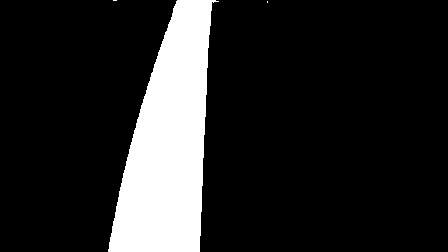
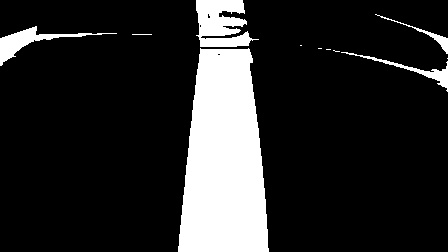
Francisco: Intersection uTurn

diff --git a/InProgress3/line_cam.py b/InProgress3/line_cam.py
@@ -302,9 +302,14 @@ def interpretPOI(poiCropped, poi, is_crop, maxBlackTop, bottomPoint, average_lin
         lastDirection = turn_direction
         
         if timer_manager.is_timer_expired("test_timer"): # So only start counting time from the last time it was seen
-            timer_manager.set_timer("test_timer", 0.75) # Give .75 s for turn
+            timer_manager.set_timer("test_timer", 1.5) # Give 1.0 s for turn
         
         turnReason.value = 1
+
+    elif turn_direction == "uTurn":
+        # BackUp to Control loop. Meaning it will go forward until control decides otherwise
+        final_poi = (camera_x / 2, camera_y / 2)
+        turnReason.value = 102
 
     elif not timer_manager.is_timer_expired("test_timer"): # Not Expired
         #print(f'Still in Turn {"left" if lastDirection == "left" else "right"}')
@@ -448,12 +453,12 @@ def check_black(black_around_sign, i, green_box):
     marker_height_search_factor = 0.3
 
     # Bottom
-    """roi_b_top_left = (np.minimum(int(green_box[2][0]), int(green_box[3][0])), int(green_box[2][1]))
+    roi_b_top_left = (np.minimum(int(green_box[2][0]), int(green_box[3][0])), int(green_box[2][1]))
     roi_b_bottom_right = (np.maximum(int(green_box[2][0]), int(green_box[3][0])), np.minimum(int(green_box[2][1] + (marker_height * marker_height_search_factor)), camera_y))
 
     # Draw the bounding box for the bottom region
     cv2.rectangle(cv2_img, roi_b_top_left, roi_b_bottom_right, (0, 255, 0), 2)  # Green color box
-    """
+    
     
     # Bottom
     roi_b = blackImage[int(green_box[2][1]):np.minimum(int(green_box[2][1] + (marker_height * marker_height_search_factor)), camera_y), np.minimum(int(green_box[2][0]), int(green_box[3][0])):np.maximum(int(green_box[2][0]), int(green_box[3][0]))]
@@ -462,12 +467,12 @@ def check_black(black_around_sign, i, green_box):
             black_around_sign[i, 0] = 1
 
     # Top
-    """roi_t_top_left = (np.minimum(np.maximum(int(green_box[0][0]), 0), np.maximum(int(green_box[1][0]), 0)), np.maximum(int(green_box[1][1] - (marker_height * marker_height_search_factor)), 0))
+    roi_t_top_left = (np.minimum(np.maximum(int(green_box[0][0]), 0), np.maximum(int(green_box[1][0]), 0)), np.maximum(int(green_box[1][1] - (marker_height * marker_height_search_factor)), 0))
     roi_t_bottom_right = (np.maximum(np.maximum(int(green_box[0][0]), 0), np.maximum(int(green_box[1][0]), 0)), int(green_box[1][1]))
 
     # Draw the bounding box for the top region
     cv2.rectangle(cv2_img, roi_t_top_left, roi_t_bottom_right, (0, 255, 0), 2)  # Green color box
-    """
+    
 
     roi_t = blackImage[np.maximum(int(green_box[1][1] - (marker_height * marker_height_search_factor)), 0):int(green_box[1][1]), np.minimum(np.maximum(int(green_box[0][0]), 0), np.maximum(int(green_box[1][0]), 0)):np.maximum(np.maximum(int(green_box[0][0]), 0), np.maximum(int(green_box[1][0]), 0))]
     if roi_t.size > 0:
@@ -477,12 +482,12 @@ def check_black(black_around_sign, i, green_box):
     green_box = green_box[green_box[:, 0].argsort()]
 
     # Left
-    """roi_l_top_left = (np.maximum(int(green_box[1][0] - (marker_height * marker_height_search_factor)), 0), np.minimum(int(green_box[0][1]), int(green_box[1][1])))
+    roi_l_top_left = (np.maximum(int(green_box[1][0] - (marker_height * marker_height_search_factor)), 0), np.minimum(int(green_box[0][1]), int(green_box[1][1])))
     roi_l_bottom_right = (int(green_box[1][0]), np.maximum(int(green_box[0][1]), int(green_box[1][1])))
 
     # Draw the bounding box for the left region
     cv2.rectangle(cv2_img, roi_l_top_left, roi_l_bottom_right, (0, 255, 0), 2)  # Green color box
-    """
+    
 
     roi_l = blackImage[np.minimum(int(green_box[0][1]), int(green_box[1][1])):np.maximum(int(green_box[0][1]), int(green_box[1][1])), np.maximum(int(green_box[1][0] - (marker_height * marker_height_search_factor)), 0):int(green_box[1][0])]
     if roi_l.size > 0:
@@ -490,12 +495,12 @@ def check_black(black_around_sign, i, green_box):
             black_around_sign[i, 2] = 1
 
     # Right
-    """roi_r_top_left = (int(green_box[2][0]), np.minimum(int(green_box[2][1]), int(green_box[3][1])))
+    roi_r_top_left = (int(green_box[2][0]), np.minimum(int(green_box[2][1]), int(green_box[3][1])))
     roi_r_bottom_right = (np.minimum(int(green_box[2][0] + (marker_height * marker_height_search_factor)), camera_x), np.maximum(int(green_box[2][1]), int(green_box[3][1])))
 
     # Draw the bounding box for the right region
     cv2.rectangle(cv2_img, roi_r_top_left, roi_r_bottom_right, (0, 255, 0), 2)  # Green color box
-    """
+    
 
     roi_r = blackImage[np.minimum(int(green_box[2][1]), int(green_box[3][1])):np.maximum(int(green_box[2][1]), int(green_box[3][1])), int(green_box[2][0]):np.minimum(int(green_box[2][0] + (marker_height * marker_height_search_factor)), camera_x)]
     if roi_r.size > 0:
@@ -545,7 +550,7 @@ def checkGreen(contours_grn):
         
         # Only process contours in the bottom 80% of the image
         if y_center < bottom_percent_threshold:
-            print(f"Here {y_center} {bottom_percent_threshold}")
+            #print(f"Here {y_center} {bottom_percent_threshold}")
             continue
             
 
@@ -634,7 +639,8 @@ def lineCamLoop():
     timer.set_timer("left_marker_up", .05)
     timer.set_timer("turn_persistence_timer", .05)  # Initialize if not present
 
-    timer_manager.add_timer("test_timer", 0.05)  # Timer lasts for 5 seconds
+    timer_manager.add_timer("test_timer", 0.05)
+    timer_manager.add_timer("uTurn", 0.05)
 
 
     t0 = time.perf_counter()

diff --git a/InProgress3/robot.py b/InProgress3/robot.py
@@ -14,6 +14,8 @@ print("Robot Functions: \t \t OK")
 
 # Situation Vars:
 objective = "Follow Line"
+lastTurn = "Straight"
+rotateTo = "left" # When it needs to do 180 it rotates to ...
 
 # Loop Vars
 notWaiting = True
@@ -23,8 +25,6 @@ commandWaitingList = []
 
 # Pin Definitions
 SWITCH_PIN = 14
-
-# Initialize components
 switch = Button(SWITCH_PIN, pull_up=True)  # Uses internal pull-up
 
 # Motor Vars
@@ -32,6 +32,7 @@ M1 = M2 = 1520 # Left - Right
 oldM1 = oldM2 = M1
 error = errorAcc = lastError = 0
 
+timer_manager = TimerManager()
 
 # Command Intrepreter
 def intrepretCommand():
@@ -118,7 +119,7 @@ def is_switch_on():
 
 # Controller for LoP
 def LoPSwitchController():
-    global switchState
+    global switchState, rotateTo
 
     if is_switch_on():
         if switchState == False:
@@ -128,6 +129,7 @@ def LoPSwitchController():
         if switchState == True:
             switchState = False
             printDebug(f"LoP Switch is now OFF: {switchState}", config.softDEBUG)
+            rotateTo = "right" if rotateTo == "left" else "left" # Toggles rotate To
     
 
 # Calculate motor Speed difference from default
@@ -191,9 +193,26 @@ def setMotorsSpeeds():
     #motorSpeedDiference = PID(lineCenterX.value)
     motorSpeedDiference = PID2(lineCenterX.value, lineAngle.value)
     M1, M2 = calculateMotorSpeeds(motorSpeedDiference)
+
+    if not timer_manager.is_timer_expired("uTurn"): # if in uTurn (timer not expired)
+        if rotateTo == "left":
+            M1, M2 = 1000, 2000
+        elif rotateTo == "right":
+            M1, M2 = 2000, 1000
+    
+    elif not timer_manager.is_timer_expired('backwards'):
+        M1, M2 = 1000, 1000
+
+    elif timer_manager.get_remaining_time('uTurn') < 0 and timer_manager.get_remaining_time('uTurn') > -0.2:
+        # Left uTurn Routine a few moments prior
+        timer_manager.set_timer('backwards', 1.0)
+
+    #print(f"Remaining Time: {timer_manager.get_remaining_time('uTurn')}")
+
     M1info, M2info = M1, M2
 
-    if switchState: #LoP On - GamepadControl
+    if True:
+    #if switchState: #LoP On - GamepadControl
         M1 = gamepadM1.value
         M2 = gamepadM2.value
  
@@ -205,8 +224,18 @@ def controlMotors():
         message = f"M({int(M1)}, {int(M2)})"
         mySerial.sendSerial(message)
 
+
+
 def intersectionController():
-    pass
+    global lastTurn
+    if turnDirection.value != lastTurn:
+        printDebug(f"New Turn direction {turnDirection.value} {lastTurn}", config.DEBUG)
+        
+        if turnDirection.value == "uTurn":
+            if timer_manager.is_timer_expired("uTurn"):
+                timer_manager.set_timer("uTurn", 1.5) # Give 1.5 s for 180degree turn
+
+        lastTurn = turnDirection.value
 
 
 
@@ -226,6 +255,11 @@ def controlLoop():
     lastError = 0
     errorAcc = 0
     sendCommandList(["GR","BC", "SF,5,F", "CL", "SF,4,F"])
+
+    # Timers
+    timer_manager.add_timer("uTurn", 0.05)
+    timer_manager.add_timer("backwards", 0.05)
+    time.sleep(0.1)
 
     t0 = time.perf_counter()
     while not terminate.value:

diff --git a/InProgress3/config.py b/InProgress3/config.py
@@ -29,8 +29,8 @@ black_max = [255, 255, 130] # 133 133 135
 
 #green_min = [50, 95, 40]    # 58, 95, 39 Night | 126, 94, 145 Day
 #green_max = [100, 255, 255] # 98, 255, 255 Night | 155, 130, 180 Day
-green_min = [45, 45, 35] # 50, 95, 40
-green_max = [105, 218, 146] # 100, 255, 255
+green_min = [40, 75, 35] # 50, 95, 40
+green_max = [105, 255, 170] # 100, 255, 255
 red_min_1 = [0, 100, 90]
 red_max_1 = [10, 255, 255]
 red_min_2 = [170, 100, 100]

diff --git a/InProgress3/utils.py b/InProgress3/utils.py
@@ -78,5 +78,6 @@ class TimerManager:
         #Get the remaining time until the timer expires.
         if name in self.timers:
             elapsed_time = time.perf_counter() - self.timers[name]["start_time"]
-            return max(0, self.timers[name]["duration"] - elapsed_time)  # Ensure non-negative
+            return self.timers[name]["duration"] - elapsed_time
         return None  # Timer doesn't exist
+
